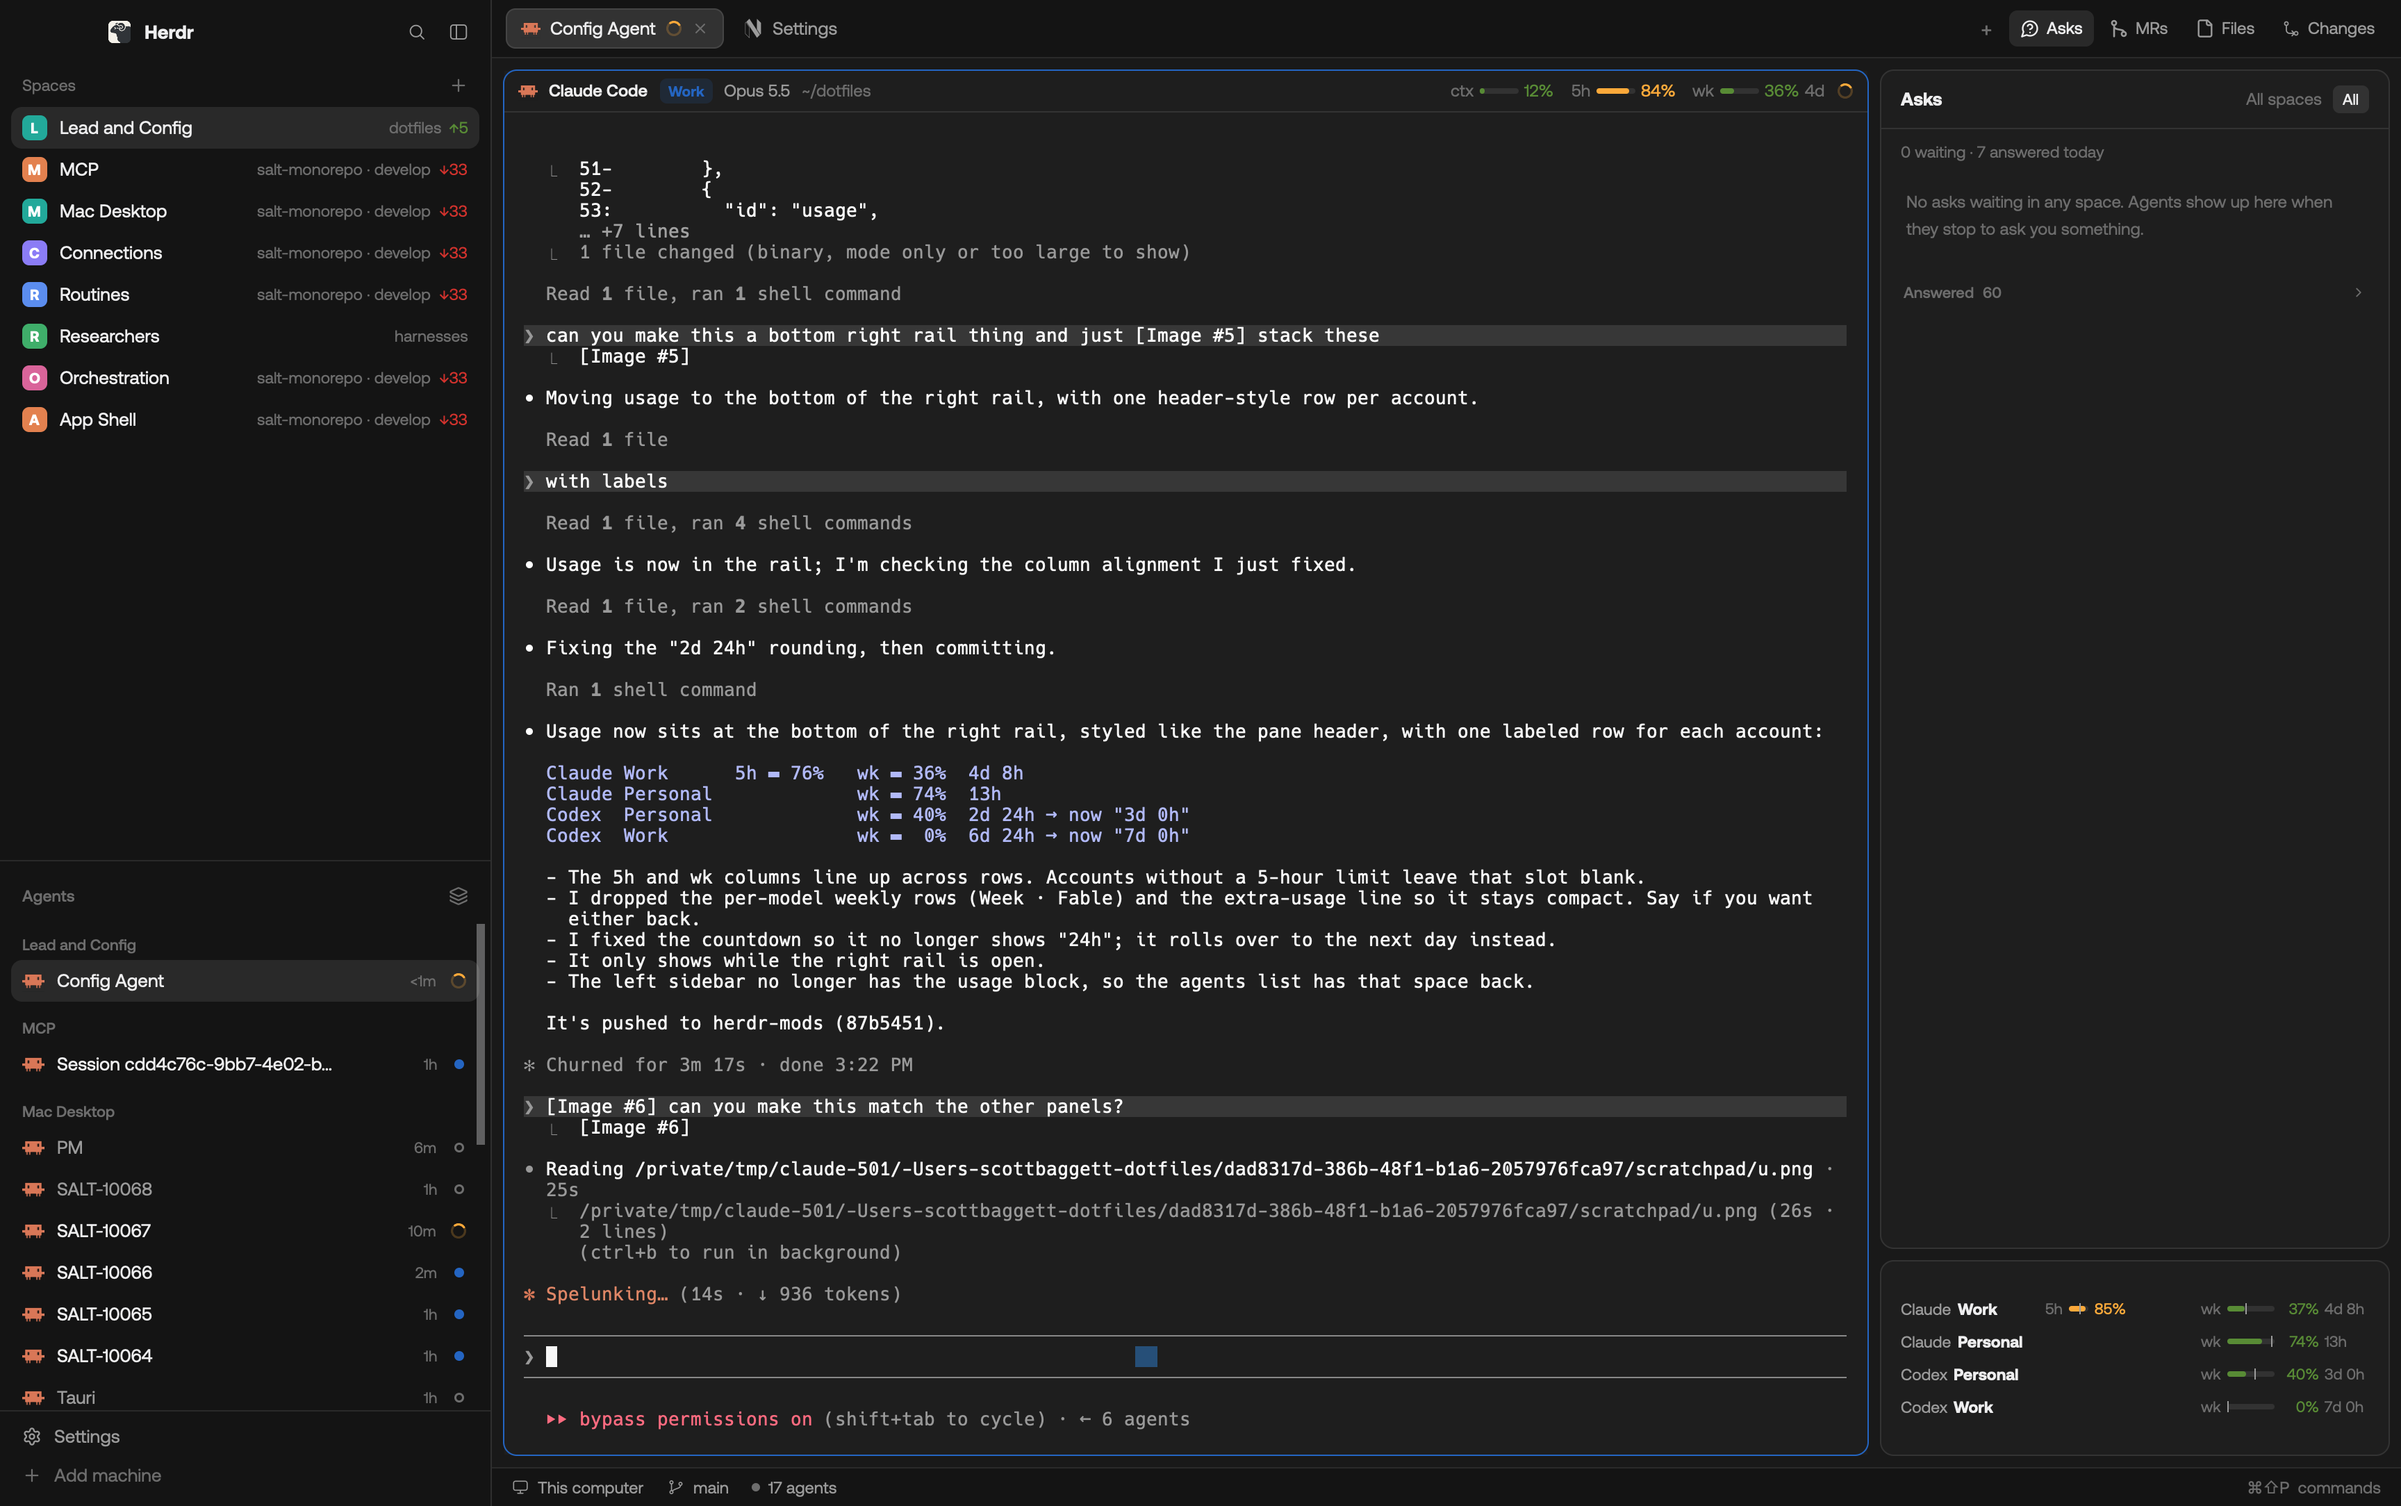
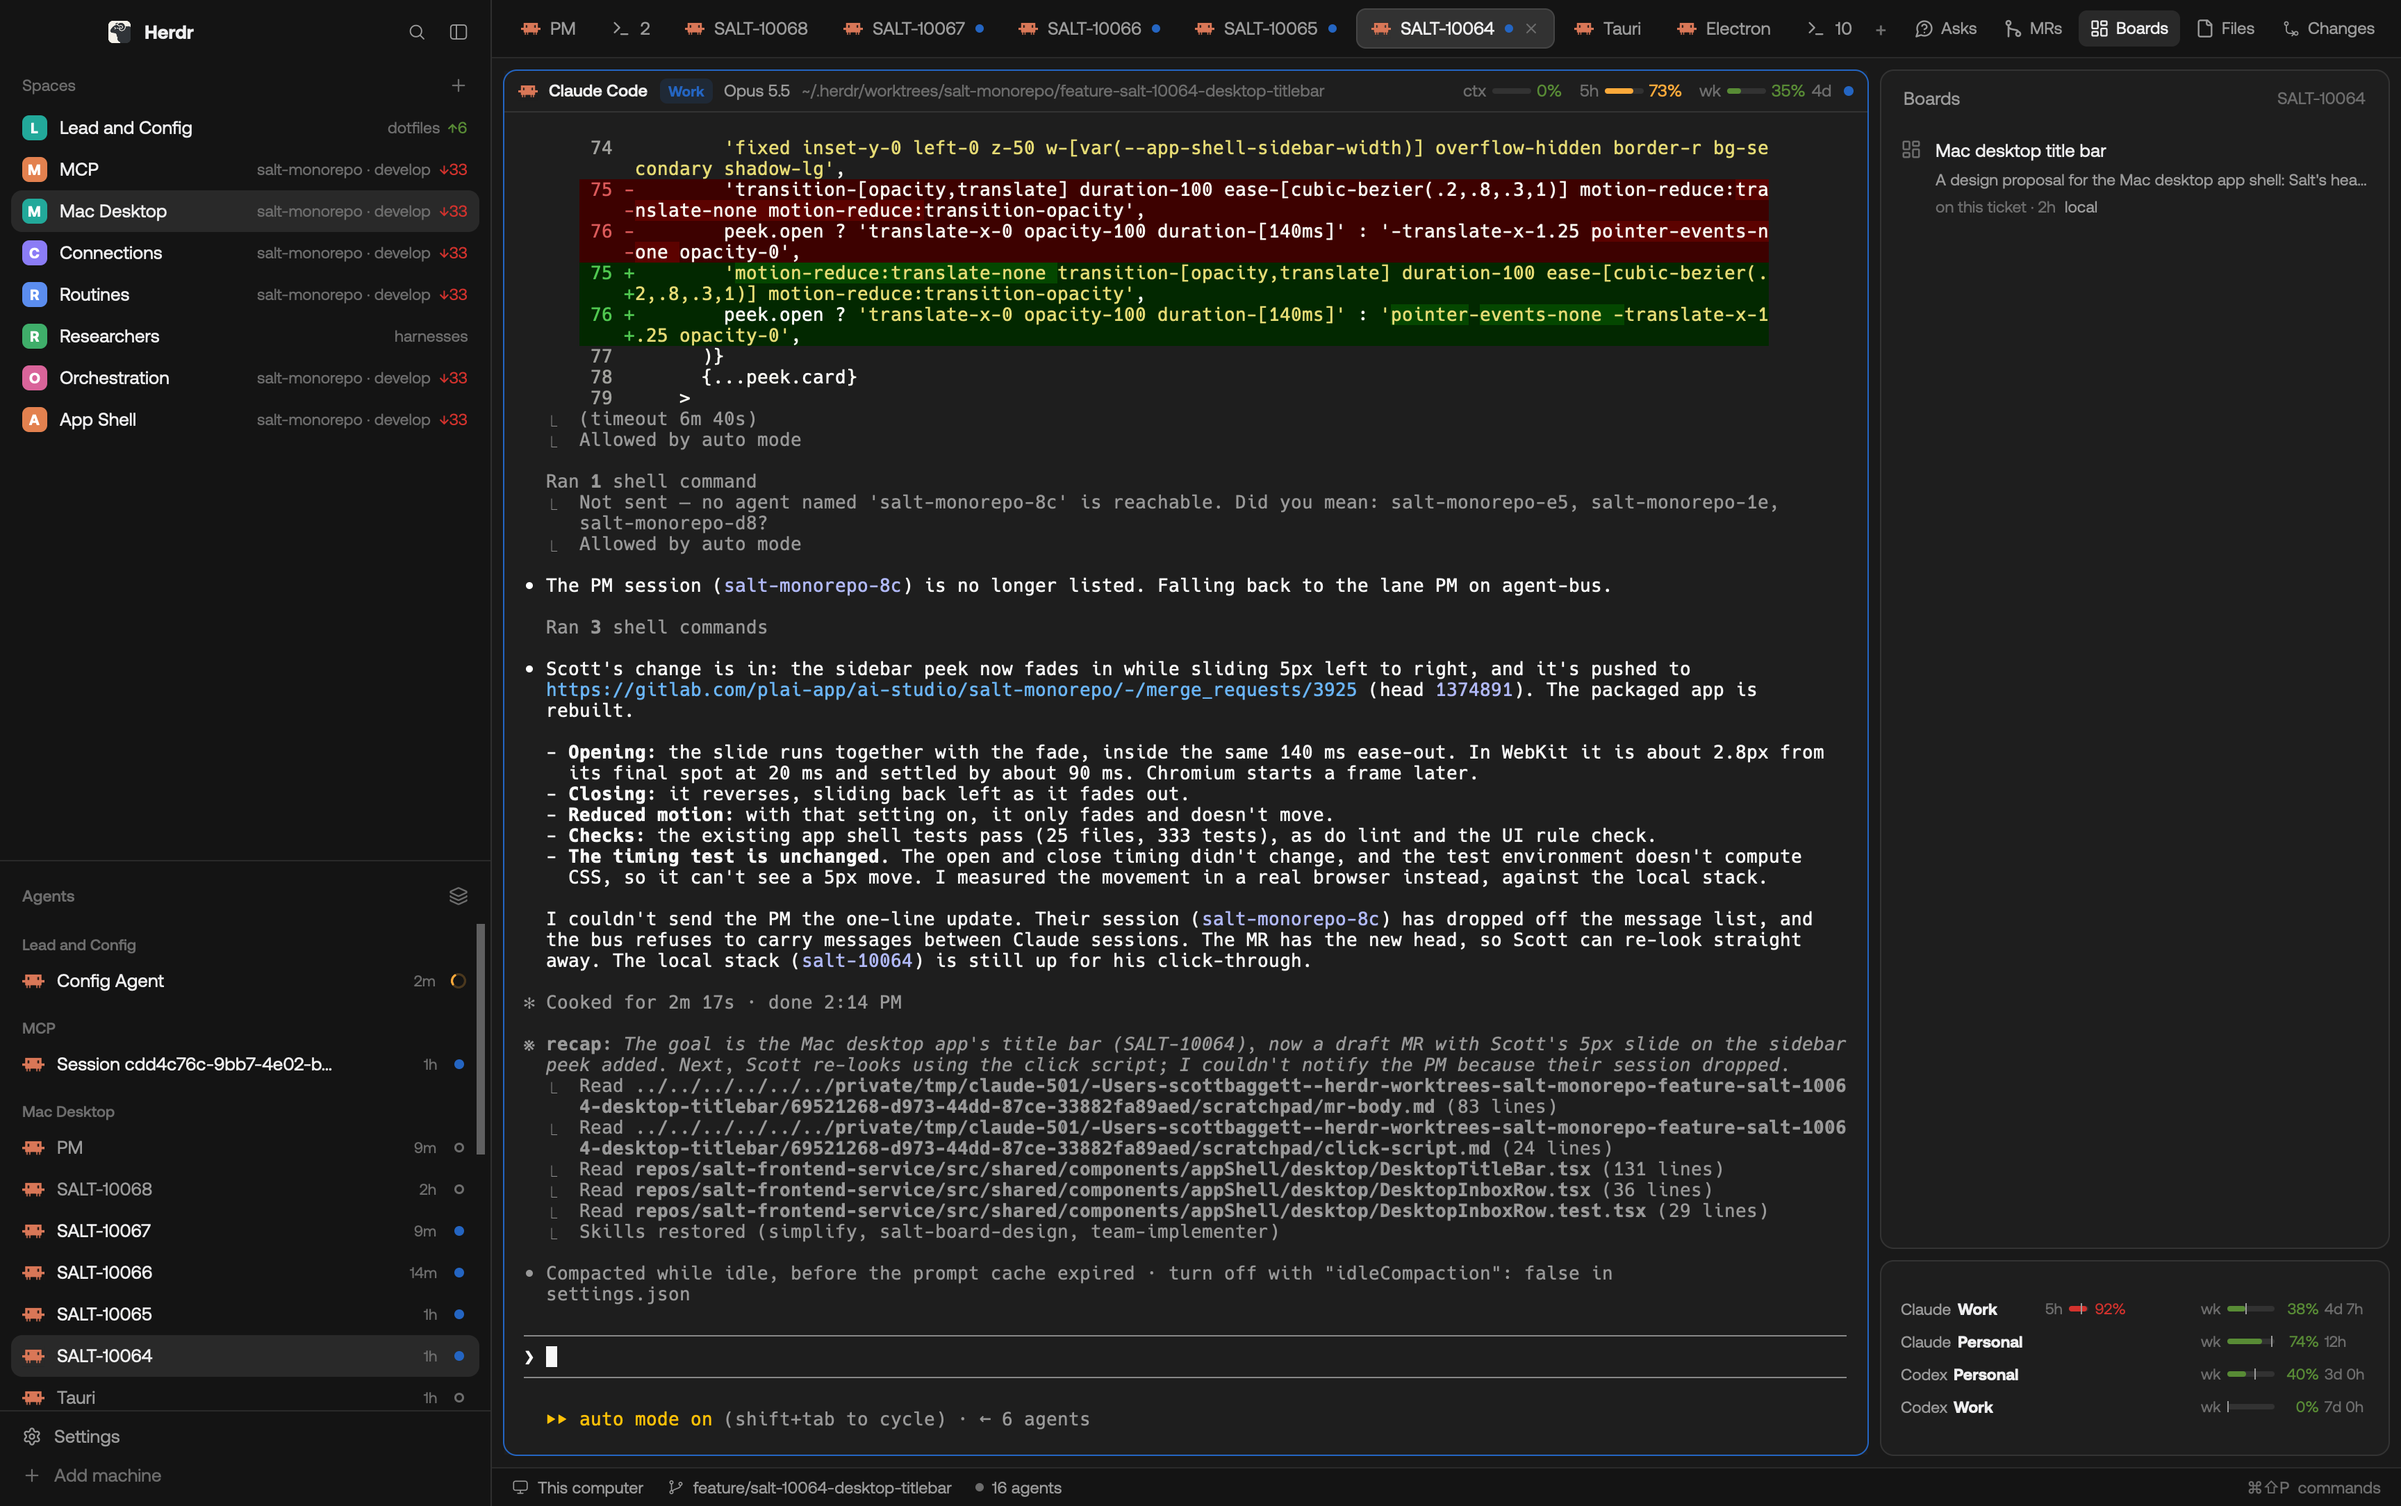
feat(boards): right-rail panel of the Salt design boards the focused chat is working with
herdr-boards matches a chat's boards by board.json agent.session, mentions in what the chat
wrote or ran, the branch's ticket in the board's context, and boards made in its worktree.
agent-statusline and codex-watch now label agent.session and agent.transcript.

diff --git a/mods/boards/main.js b/mods/boards/main.js
@@ -1,0 +1,80 @@
+// Boards: the Salt design boards the focused chat is working with. A board shows when its board.json
+// names the chat (agent.session), the chat mentions it, it is linked to the chat's ticket, or it was
+// made in the chat's worktree since the chat began. Click opens its review link; "local" opens the build.
+// Data: bin/herdr-boards, for the focused terminal (its cwd and agent.session / agent.transcript labels).
+import { View, div, svg } from "gpui-kit";
+import { v_flex, h_flex } from "gpui-base";
+import { exec, theme, focused, terminals } from "herdr";
+
+const WHY = { chat: "made in this chat", mentioned: "mentioned", ticket: "on this ticket", "made here": "made in this worktree" };
+const ago = (s) => { const d = Date.now() / 1000 - s; return d < 3600 ? `${Math.max(1, Math.round(d / 60))}m` : d < 86400 ? `${Math.round(d / 3600)}h` : `${Math.round(d / 86400)}d`; };
+
+export default class Boards extends View {
+  init(_props, cx) {
+    this.key = null; this.data = null; this.err = null; this.target = null;
+    cx.timer.every(2000, (cx) => this.check(cx));
+    cx.timer.every(30000, (cx) => this.refresh(cx));
+    this.check(cx);
+  }
+
+  // Follow the focused terminal; keep the last one while focus is elsewhere (on this panel, say).
+  check(cx) {
+    const f = focused();
+    if (!f?.terminal) return;
+    const term = terminals().find((x) => x.address === f.terminal);
+    const L = term?.labels ?? {};
+    const target = { terminal: f.terminal, cwd: f.cwd, session: L["agent.session"], transcript: L["agent.transcript"] };
+    const key = JSON.stringify(target);
+    if (key === this.key) return;
+    this.key = key; this.target = target; this.data = null;
+    this.refresh(cx);
+  }
+
+  refresh(cx) {
+    const t = this.target;
+    if (!t?.cwd) return;
+    const key = this.key;
+    cx.spawn(async (cx) => {
+      const args = ["--cwd", t.cwd];
+      if (t.session) args.push("--session", t.session);
+      if (t.transcript) args.push("--transcript", t.transcript);
+      try {
+        const r = await exec("herdr-boards", args, { timeout: 20000 });
+        if (r.code !== 0) throw new Error(r.stderr || `exit ${r.code}`);
+        if (key === this.key) { this.data = JSON.parse(r.stdout); this.err = null; }
+      } catch (e) { this.err = String(e?.message ?? e).slice(0, 160); }
+      cx.notify();
+    });
+  }
+
+  row(b, t) {
+    const strong = b.why[0] === "chat" || b.why[0] === "mentioned";
+    return h_flex().id(`b-${b.slug}`).px(14).py(7).gap(10).items_start().cursor_pointer()
+      .hover((s) => s.bg(t.hover)).on_click(() => exec("open", [b.url]))
+      .child(div().pt(2).flex_none().child(svg("mods/boards/board.svg").size(15).text_color(strong ? t.accent : t.dim)))
+      .child(v_flex().flex_1().min_w(0).gap(1)
+        .child(div().text_size(13).truncate().text_color(t.foreground).child(b.title))
+        .when(!!b.description, (el) => el.child(div().text_size(11.5).text_color(t.muted).truncate().child(b.description)))
+        .child(h_flex().gap(6).items_center().text_size(11.5).text_color(t.dim)
+          .child(div().truncate().child(`${WHY[b.why[0]]} · ${ago(b.updated)}`))
+          .when(!!b.local, (el) => el.child(div().id(`local-${b.slug}`).flex_none().text_color(t.muted).hover((s) => s.text_color(t.foreground))
+            .on_click((_e, cx) => { cx.stop_propagation(); exec("open", [b.local]); }).child("local")))));
+  }
+
+  render(_cx) {
+    const t = theme();
+    const boards = this.data?.boards ?? [];
+    const header = h_flex().h(40).px(16).gap(6).items_center().flex_none()
+      .child(div().text_size(13).text_color(t.muted).child("Boards"))
+      .child(div().flex_1())
+      .child(div().text_size(12).text_color(t.dim).child(this.data?.ticket ?? ""));
+    const list = v_flex().id("boards-list").flex_1().min_h(0).overflow_y_scrollbar().pb(8);
+    if (this.err) list.child(div().px(16).py(2).text_size(11).text_color(t.blocked).child(this.err));
+    if (!this.target) list.child(div().px(16).text_size(12).text_color(t.dim).child("Focus a chat to see its boards"));
+    else if (!this.data && !this.err) list.child(div().px(16).text_size(12).text_color(t.dim).child("Loading…"));
+    else if (this.data && !boards.length) list.child(div().px(16).text_size(12).text_color(t.dim).child("No boards for this chat"));
+    list.children(boards.map((b) => this.row(b, t)));
+    return v_flex().size_full().min_h(0).rounded(10).overflow_hidden().bg(t.background).border_1().border_color(t.border)
+      .child(header).child(list);
+  }
+}

diff --git a/mods/tabs-asks/main.js b/mods/tabs-asks/main.js
@@ -102,7 +102,7 @@ export default class Tabs extends View {
       ? Math.max(10, (root.traffic_lights[0] + 64) / settings().zoom - (sidebar?.hidden ? 0 : sidebar?.size?.px ?? 0))
       : 10;
     const panel = find(root, "panel"), body = find(root, "panel-body");
-    const enabled = [...(shared("workspace.panels") ?? ["files", "changes"]), "asks", "mrs"];
+    const enabled = [...(shared("workspace.panels") ?? ["files", "changes"]), "asks", "mrs", "boards"];
     this.syncPanel(space, panel, body, enabled);
     const panelButton = (id, label, icon, badge) => {
       const on = panel && !panel.hidden && body?.active === id;
@@ -128,6 +128,7 @@ export default class Tabs extends View {
       .child(button("tab-new", "+", () => openOverlay({ mod: "new-menu", kind: "popup", width: 250, height: 512 })))
       .child(panelButton("asks", this.engine.config?.label ?? "Asks", "mods/tabs-asks/asks.svg", badge))
       .child(panelButton("mrs", "MRs", "mods/mrs/merge.svg"))
+      .child(panelButton("boards", "Boards", "mods/boards/board.svg"))
       .when(enabled.includes("files"), el => el.child(panelButton("files", "Files", "mods/files/file.svg")))
       .when(enabled.includes("changes"), el => el.child(panelButton("changes", "Changes", "mods/changes/changes.svg")))
       .when(w?.buttons, el => el.child(button("minimize", w.platform === "windows" ? svg("mods/tabs/win-min.svg").size(16) : "−", () => run("window.minimize")))
